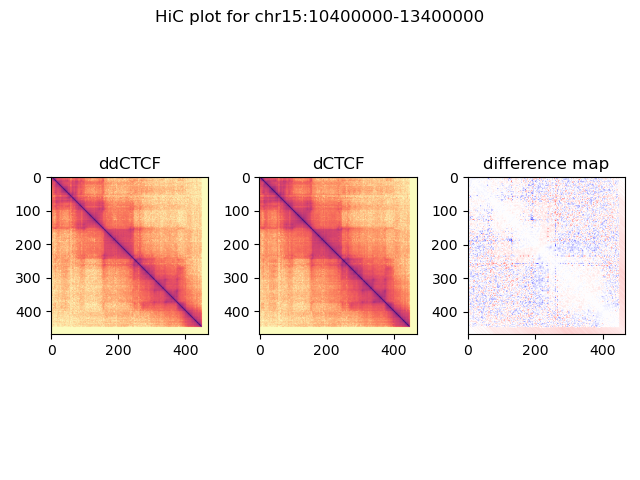
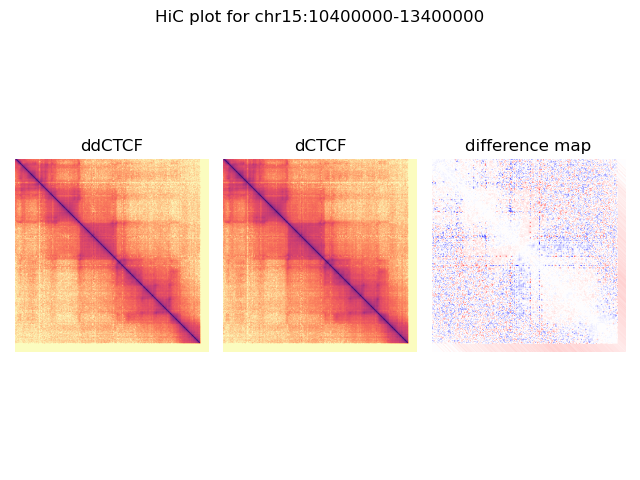
another try at insulation, still with 6400 data

Changed region(s): [[0.0, 0.2812, 1.0, 0.75]]

diff --git a/week6-homework/load_data.py b/week6-homework/load_data.py
@@ -5,6 +5,7 @@ import sys
 import numpy as np 
 import matplotlib.pyplot as plt
 import matplotlib.colors as colors
+from scipy import ndimage
 
 # analysis/hic_results/matrix/ddCTCF/iced/6400/ddCTCF_ontarget_6400_iced.matrix
 # analysis/hic_results/matrix/ddCTCF/iced/6400/dCTCF_ontarget_6400_iced.matrix
@@ -65,36 +66,40 @@ def smooth_matrix(mat):
 
 
 if __name__ == "__main__":
-    # dd_matrix = 'analysis/hic_results/matrix/ddCTCF/iced/6400/ddCTCF_ontarget_6400_iced.matrix'
-    # d_matrix = 'analysis/hic_results/matrix/dCTCF/iced/6400/dCTCF_ontarget_6400_iced.matrix'
-    # bin_fname = 'analysis/hic_results/matrix/dCTCF/raw/6400/dCTCF_ontarget_6400_abs.bed'
+    dd_matrix = 'analysis/hic_results/matrix/ddCTCF/iced/6400/ddCTCF_ontarget_6400_iced.matrix'
+    d_matrix = 'analysis/hic_results/matrix/dCTCF/iced/6400/dCTCF_ontarget_6400_iced.matrix'
+    bin_fname = 'analysis/hic_results/matrix/dCTCF/raw/6400/dCTCF_ontarget_6400_abs.bed'
 
-    # start, end = get_bins(bin_fname, b'chr15', 11170245, 12070245)
+    start, end = get_bins(bin_fname, b'chr15', 11170245, 12070245)
 
-    # dim = end - start
+    dim = end - start
 
-    # dd_data = process_data(dd_matrix, start, end)
-    # d_data = process_data(d_matrix, start, end)
+    dd_data = process_data(dd_matrix, start, end)
+    d_data = process_data(d_matrix, start, end)
 
-    # dd_mat = populate_matrix(dd_data, dim)
-    # d_mat = populate_matrix(d_data, dim)
+    dd_mat = populate_matrix(dd_data, dim)
+    d_mat = populate_matrix(d_data, dim)
 
-    # fig, axs = plt.subplots(1,3)
+    fig, axs = plt.subplots(1,3)
 
-    # vmax = np.max([np.max(dd_mat), np.max(d_mat)])
+    vmax = np.max([np.max(dd_mat), np.max(d_mat)])
 
-    # axs[0].imshow(-1*dd_mat, cmap='magma', vmin=-vmax, vmax=0)
-    # axs[1].imshow(-1*d_mat, cmap='magma', vmin=-vmax, vmax=0)
-    # axs[2].imshow((remove_dd_bg(smooth_matrix(dd_mat))-remove_dd_bg(smooth_matrix(d_mat))), cmap='seismic', norm=colors.CenteredNorm())
+    axs[0].imshow(-1*dd_mat, cmap='magma', vmin=-vmax, vmax=0)
+    axs[1].imshow(-1*d_mat, cmap='magma', vmin=-vmax, vmax=0)
+    axs[2].imshow((remove_dd_bg(smooth_matrix(dd_mat))-remove_dd_bg(smooth_matrix(d_mat))), cmap='seismic', norm=colors.CenteredNorm())
     
-    # axs[0].set_title('ddCTCF')
-    # axs[1].set_title('dCTCF')
-    # axs[2].set_title('difference map')
+    axs[0].axis('off')
+    axs[1].axis('off')
+    axs[2].axis('off')
 
-    # plt.suptitle('HiC plot for chr15:11170245-12070245')
-    # plt.tight_layout()
-    # plt.savefig('hiC.png')
-    # plt.show()
+    axs[0].set_title('ddCTCF')
+    axs[1].set_title('dCTCF')
+    axs[2].set_title('difference map')
+
+    plt.suptitle('HiC plot for chr15:11170245-12070245')
+    plt.tight_layout()
+    plt.savefig('hiC.png')
+    plt.show()
 
     ### FULL DATA SETS ###
     dd_full = 'matrix/ddCTCF_full.6400.matrix'
@@ -122,6 +127,10 @@ if __name__ == "__main__":
     axs[1].set_title('dCTCF')
     axs[2].set_title('difference map')
 
+    axs[0].axis('off')
+    axs[1].axis('off')
+    axs[2].axis('off')
+
     plt.suptitle('HiC plot for chr15:10400000-13400000')
     plt.tight_layout()
     plt.savefig('hiC_full.png')
@@ -130,25 +139,50 @@ if __name__ == "__main__":
     # Now insulation scores
     dd_insul = []
     d_insul = []
-    for i in range(dd_mat.shape[0]):
+    for i in range(dd_mat.shape[0]-10):
         dd_insul.append(np.mean(dd_mat[(i - 5):(i+5), (i-5):(i + 5)]))
     
-    for i in range(d_mat.shape[0]):
+    for i in range(d_mat.shape[0]-10):
         d_insul.append(np.mean(d_mat[(i - 5):(i+5), (i-5):(i + 5)]))
 
-    print(len(d_insul))
-    print(len(dd_insul))
-
-    fig, ax = plt.subplots(2, 1, gridspec_kw={'height_ratios': [3, 1]}, figsize=(5,6.25))
-    ax[0].axis('off')
+    assert(np.sum(np.array(dd_insul) != np.array(d_insul)) > 0)
+    print(d_insul)
+    fig, ax = plt.subplots(2, 2, gridspec_kw={'height_ratios': [3, 1]}, figsize=(10,6.25))
+    ax[0,0].axis('off')
+    rot = ndimage.rotate(d_mat, 45)
+    ax[0,0].imshow(-1*rot[:int(len(rot)/2)], cmap='magma', vmin=-vmax, vmax=0)
+    ax[1,0].plot(np.arange(len(d_insul)), d_insul)
     plt.margins(x=0)
-    ax[1].set_xlim(10400000, 13400000)
+    ax[1,0].set_xticks([0, len(d_insul)-1])
+    ax[1,0].set_xticklabels([10400000, 13400000])
+
+    ax[0,1].axis('off')
+    rot = ndimage.rotate(dd_mat, 45)
+    ax[0,1].imshow(-1*rot[:int(len(rot)/2)], cmap='magma', vmin=-vmax, vmax=0)
+    ax[1,1].plot(np.arange(len(dd_insul)), dd_insul)
+    plt.margins(x=0)
+    ax[1,1].set_xticks([0, len(dd_insul)-1])
+    ax[1,1].set_xticklabels([10400000, 13400000])
+
+    ax[0,0].set_title('dCTCF')
+    ax[0,1].set_title('ddCTCF')
+
+    ax[1,0].set_ylabel('Insulation score')
+    ax[1,1].set_ylabel('Insulation score')
+
+    ax[1,0].set_xlabel('Position')
+    ax[1,1].set_xlabel('Position')
+
     plt.subplots_adjust(left=0.15,
                     bottom=0.1,
                     right=1.0,
                     top=1.0,
                     wspace=0.4,
                     hspace=0.0)
+    plt.tight_layout()
+    plt.suptitle('HiC and insulation scores')
+    plt.savefig('hic_insulation.png')
+    plt.show()
 
 
     
